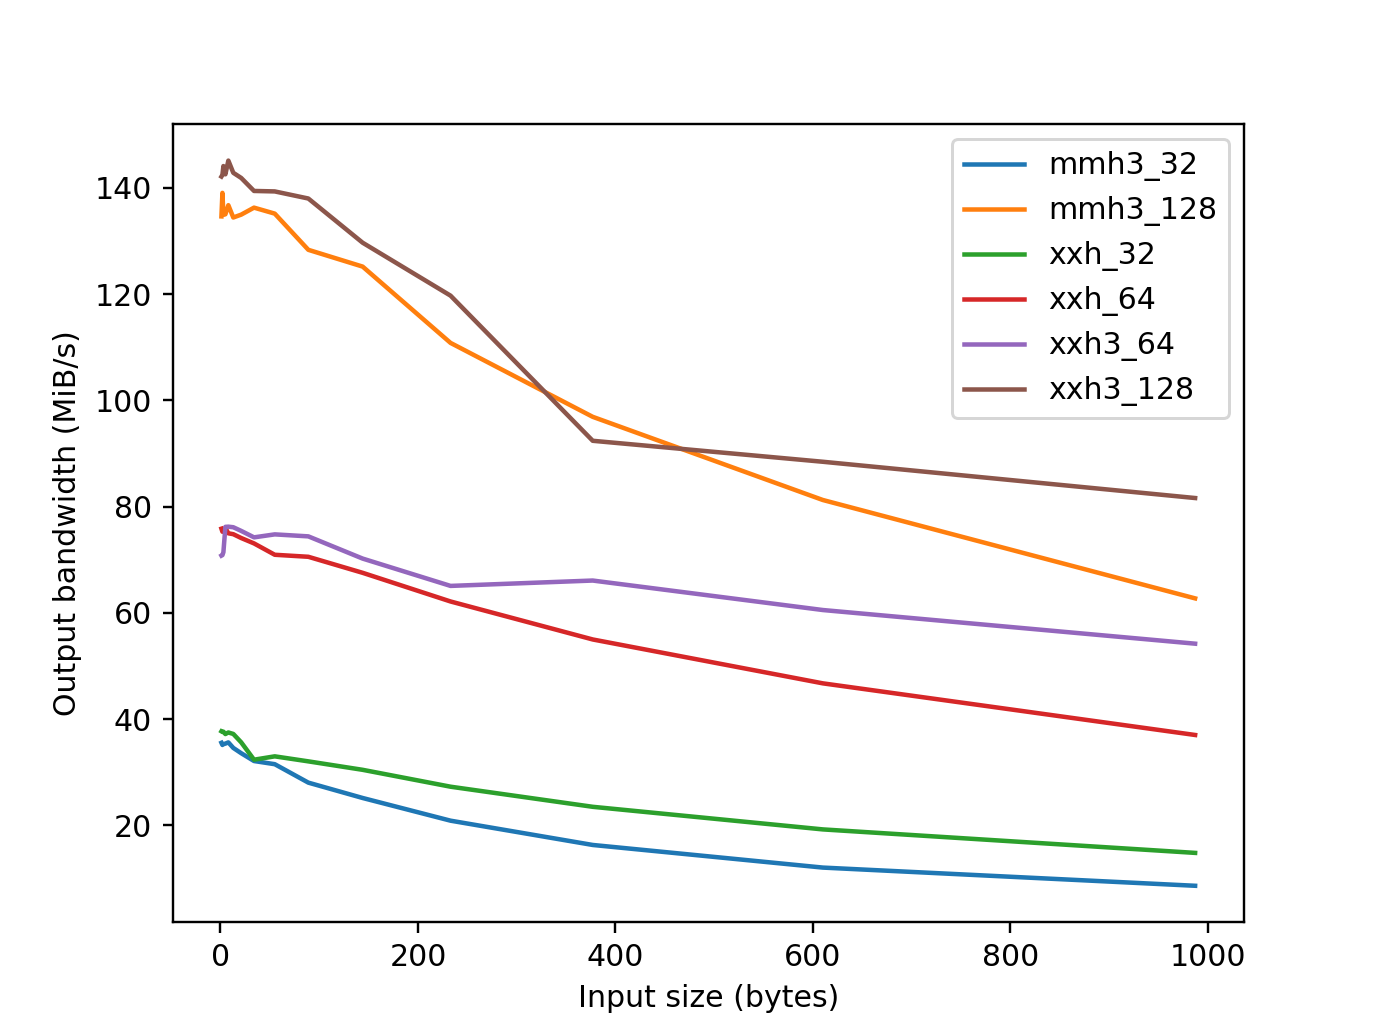
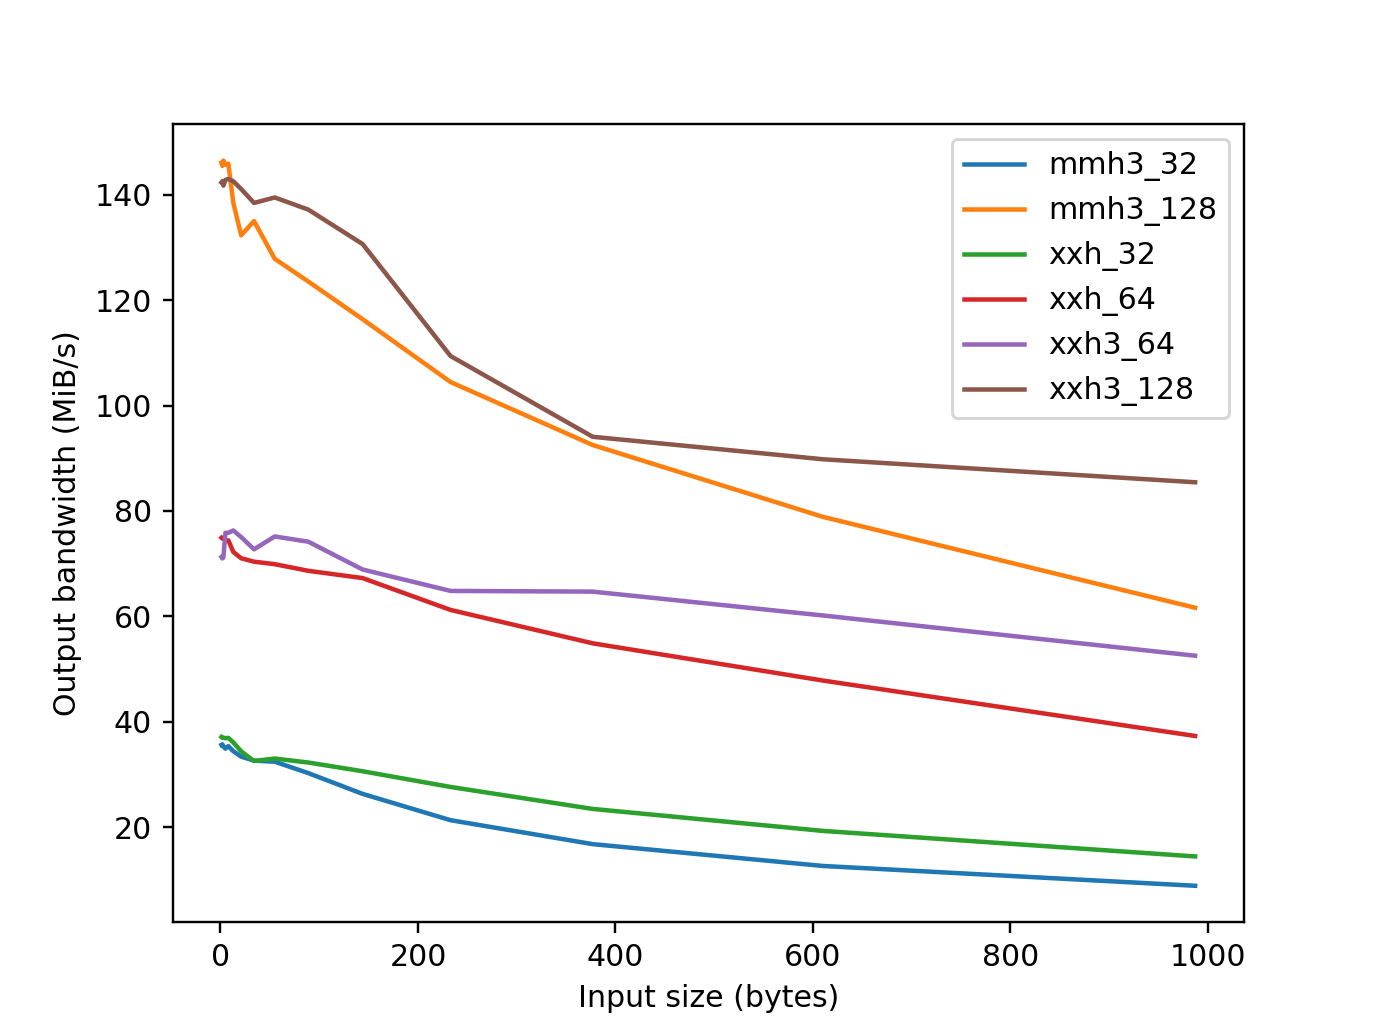
Add command line argument for bench type

diff --git a/benchmark/benchmark.py b/benchmark/benchmark.py
@@ -17,19 +17,6 @@ K1: Final[int] = 0b1001111000110111011110011011000110000101111010111100101010000
 K2: Final[int] = 0b1100001010110010101011100011110100100111110101001110101101001111
 MASK: Final[int] = 0xFFFFFFFFFFFFFFFF
 
-HASHES = {
-    "mmh3_32": mmh3.mmh3_32_digest,
-    "mmh3_128": mmh3.mmh3_x64_128_digest,
-    "xxh_32": xxhash.xxh32_digest,
-    "xxh_64": xxhash.xxh64_digest,
-    "xxh3_64": xxhash.xxh3_64_digest,
-    "xxh3_128": xxhash.xxh3_128_digest,
-    "md5": lambda ba: hashlib.md5(ba).digest(),
-    "sha1": lambda ba: hashlib.sha1(ba).digest(),
-    "pymmh3_32": pymmh3.hash,
-    "pymmh3_128": pymmh3.hash128,
-}
-
 
 def init_buffer(ba: bytearray) -> bytearray:
     """Initializes a byte array with a pattern.
@@ -117,7 +104,7 @@ def perf_hash(loops: int, f: Callable, size: int) -> float:
 
 
 def perf_hash_random(loops: int, f: Callable, size: int) -> float:
-    """Benchmark a hash function in a non-uniform way.
+    """Benchmark a hash function with varying data sizes.
 
     Args:
         loops: The number of outer loops to run.
@@ -170,8 +157,11 @@ def perf_hash_random(loops: int, f: Callable, size: int) -> float:
     return time.perf_counter() - t0
 
 
-def perf_hash_random_latency(loops: int, f: Callable, size: int) -> float:
-    """Benchmark a hash function with overhead costs.
+def perf_hash_latency(loops: int, f: Callable, size: int) -> float:
+    """Benchmark a hash function with overhead costs with varying data sizes.
+
+    Based on xxHash's ``benchLatency`` function.
+    https://github.com/Cyan4973/xxHash/blob/dev/tests/bench/benchHash.c
 
     Args:
         loops: The number of outer loops to run.
@@ -229,7 +219,28 @@ def add_cmdline_args(cmd: list, args) -> None:
         args: The parsed command line arguments.
     """
     cmd.extend(("--test-hash", args.test_hash))
+    cmd.extend(("--test-type", args.test_type))
     cmd.extend(("--test-buffer-size-max", str(args.test_buffer_size_max)))
+
+
+HASHES = {
+    "mmh3_32": mmh3.mmh3_32_digest,
+    "mmh3_128": mmh3.mmh3_x64_128_digest,
+    "xxh_32": xxhash.xxh32_digest,
+    "xxh_64": xxhash.xxh64_digest,
+    "xxh3_64": xxhash.xxh3_64_digest,
+    "xxh3_128": xxhash.xxh3_128_digest,
+    "md5": lambda ba: hashlib.md5(ba).digest(),
+    "sha1": lambda ba: hashlib.sha1(ba).digest(),
+    "pymmh3_32": pymmh3.hash,
+    "pymmh3_128": pymmh3.hash128,
+}
+
+BENCHMARKING_TYPES = {
+    "naive": perf_hash,
+    "random": perf_hash_random,
+    "latency": perf_hash_latency,
+}
 
 
 if __name__ == "__main__":
@@ -241,6 +252,14 @@ if __name__ == "__main__":
         help="Type of hash function to benchmark",
         required=True,
         choices=HASHES.keys(),
+    )
+
+    runner.argparser.add_argument(
+        "--test-type",
+        type=str,
+        help="Type of benchmarking to perform",
+        choices=BENCHMARKING_TYPES.keys(),
+        default="random",
     )
 
     runner.argparser.add_argument(
@@ -256,7 +275,7 @@ if __name__ == "__main__":
     while fib1 <= process_args.test_buffer_size_max:
         runner.bench_time_func(
             f"{fib1} bytes",
-            perf_hash_random,
+            BENCHMARKING_TYPES[process_args.test_type],
             HASHES[process_args.test_hash],
             fib1,
             inner_loops=10,
